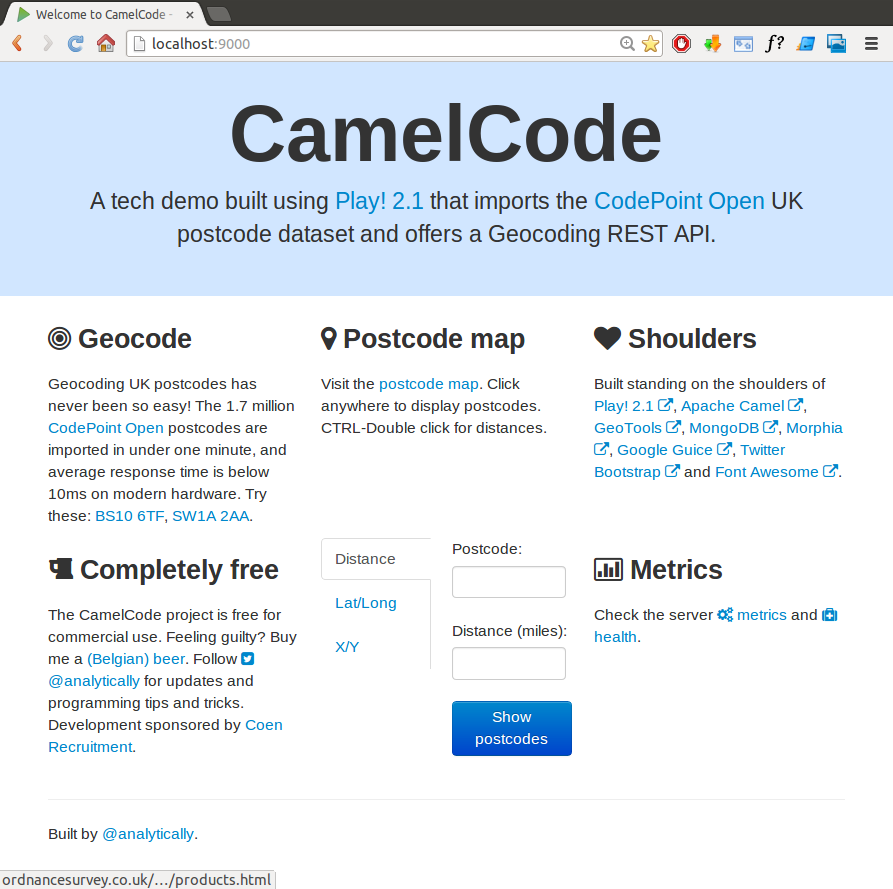
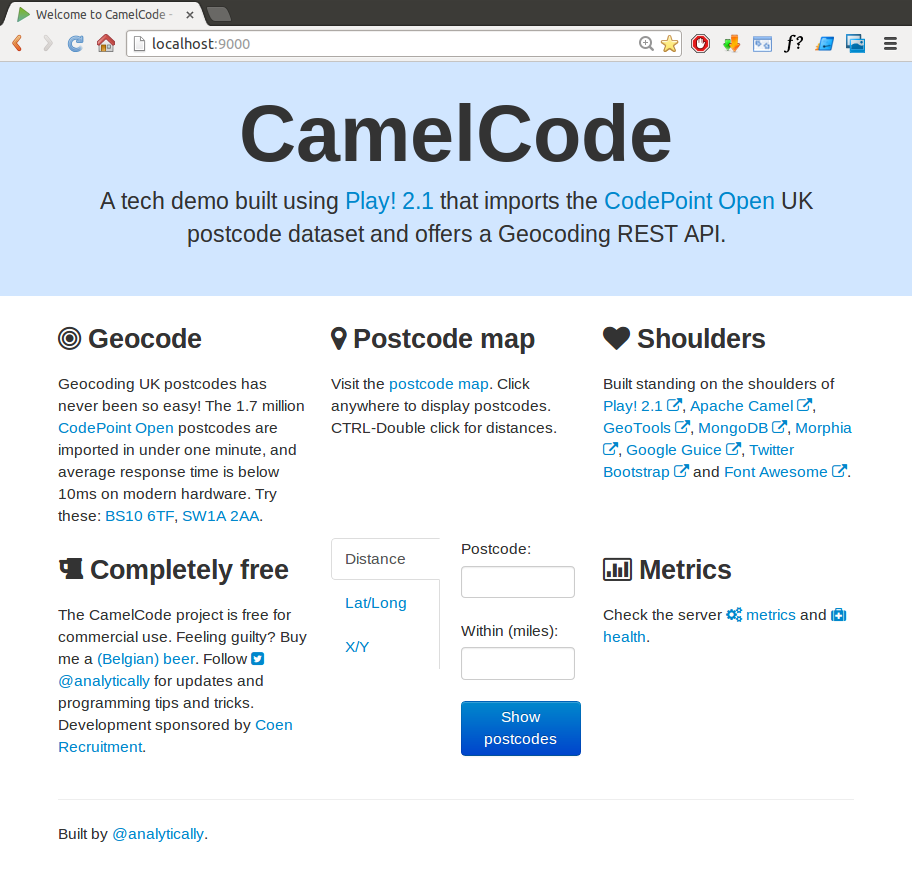
New screenshots.

diff --git a/app/views/index.scala.html b/app/views/index.scala.html
@@ -73,7 +73,7 @@
                         <input type="text" class="input-small" id="@id" name="@name" value="@value" @toHtmlArgs(args)>
                         }
 
-                        @helper.input(distanceCalc("distance"), '_label -> "Distance (miles):") { (id, name, value, args) =>
+                        @helper.input(distanceCalc("distance"), '_label -> "Within (miles):") { (id, name, value, args) =>
                         <input type="text" class="input-small" id="@id" name="@name" value="@value" @toHtmlArgs(args)>
                         }
 
